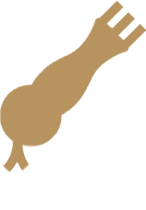
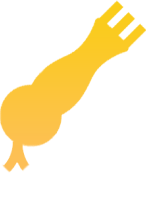
create Sedha view

Changed region(s): [[0.0, 0.0, 1.0, 0.8286]]

diff --git a/lib/ui/teps/sebha tep/sebha view.dart b/lib/ui/teps/sebha tep/sebha view.dart
@@ -1,10 +1,100 @@
 import 'package:flutter/material.dart';
 
-class SebhaView extends StatelessWidget {
+class SebhaView extends StatefulWidget {
   const SebhaView({super.key});
 
   @override
+  State<SebhaView> createState() => _SebhaViewState();
+}
+
+class _SebhaViewState extends State<SebhaView> {
+  int counter = 0;
+
+  int azkarIndex = 0;
+  double angle = 0.0;
+
+  List<String> azkar = [
+    "سبحان الله",
+    "الحمد الله",
+    "  الله اكبر ",
+  ];
+
+  @override
   Widget build(BuildContext context) {
-    return const Placeholder();
+    double width = MediaQuery.of(context).size.width;
+    double height = MediaQuery.of(context).size.height;
+    var theme = Theme.of(context);
+    return Container(
+      padding: EdgeInsets.symmetric(vertical: height * 0.08),
+      alignment: Alignment.center,
+      child: Column(children: [
+        Stack(
+          clipBehavior: Clip.none,
+          children: [
+            Positioned(
+                top: -30,
+                child: Image.asset(
+                    width: width * 0.6,
+                    height: height * 0.10,
+                    "assets/images/head of seb7a.png")),
+            Transform.rotate(
+                angle: angle,
+                child: Image.asset(
+                    width: width * 0.60, "assets/images/body of seb7a.png")),
+          ],
+        ),
+        SizedBox(
+          height: height * 0.02,
+        ),
+        Text(
+          "عدد التسبيحات",
+          style: theme.textTheme.titleMedium!
+              .copyWith(color: theme.colorScheme.onPrimary),
+          textAlign: TextAlign.center,
+        ),
+        Container(
+          margin: EdgeInsets.symmetric(vertical: height * 0.04),
+          alignment: Alignment.center,
+          width: width * 0.18,
+          height: height * 0.08,
+          decoration: BoxDecoration(
+            borderRadius: BorderRadius.circular(24.0),
+            color: theme.colorScheme.primary.withOpacity(0.6),
+          ),
+          child: Text(
+            counter.toString(),
+            style: theme.textTheme.titleMedium,
+            textAlign: TextAlign.center,
+          ),
+        ),
+        ElevatedButton(
+          style: ElevatedButton.styleFrom(
+            shape: RoundedRectangleBorder(
+              borderRadius: BorderRadius.circular(30.0),
+            ),
+            //minimumSize: Size(100, 8)
+          ),
+          onPressed: () {
+            if (counter == 33) {
+              counter = 0;
+              if (azkarIndex == azkar.length - 1) {
+                azkarIndex = 0;
+              } else {
+                azkarIndex++;
+              }
+            } else {
+              counter++;
+            }
+            angle = angle + 20;
+            setState(() {});
+          },
+          child: Text(
+            azkar[azkarIndex],
+            style: theme.textTheme.titleMedium,
+            textAlign: TextAlign.center,
+          ),
+        ),
+      ]),
+    );
   }
 }

diff --git a/lib/ui/home/home_Screen.dart b/lib/ui/home/home_Screen.dart
@@ -23,7 +23,7 @@ class _HomeScreenState extends State<HomeScreen> {
   var tapsView = [
     const QuranView(),
     const HadithView(),
-    const SebhaView(),
+    SebhaView(),
     const RadioView(),
     const SettingView(),
   ];
@@ -54,19 +54,22 @@ class _HomeScreenState extends State<HomeScreen> {
           },
           items: [
             BottomNavigationBarItem(
-                icon: ImageIcon(AssetImage("assets/images/quran.png")),
+                icon: const ImageIcon(AssetImage("assets/images/quran.png")),
                 label: AppLocalizations.of(context)!.quranTep),
             BottomNavigationBarItem(
-                icon: ImageIcon(AssetImage("assets/images/hadith icn.png")),
+                icon:
+                    const ImageIcon(AssetImage("assets/images/hadith icn.png")),
                 label: AppLocalizations.of(context)!.hadithTep),
             BottomNavigationBarItem(
-                icon: ImageIcon(AssetImage("assets/images/sebha icn.png")),
+                icon:
+                    const ImageIcon(AssetImage("assets/images/sebha icn.png")),
                 label: AppLocalizations.of(context)!.sebhaTep),
             BottomNavigationBarItem(
-                icon: ImageIcon(AssetImage("assets/images/radio_blue.png")),
+                icon:
+                    const ImageIcon(AssetImage("assets/images/radio_blue.png")),
                 label: AppLocalizations.of(context)!.radioTep),
             BottomNavigationBarItem(
-                icon: Icon(Icons.settings),
+                icon: const Icon(Icons.settings),
                 label: AppLocalizations.of(context)!.settingsTep),
           ],
         ),

diff --git a/lib/core/theme_application.dart b/lib/core/theme_application.dart
@@ -5,11 +5,12 @@ class ApplicationTheme {
   static bool isDark = true;
   static ThemeData lightTheme = ThemeData(
       colorScheme: ColorScheme.fromSeed(
-          onPrimary: const Color(0xff242424),
-          primary: const Color(0xffB7935F),
+        onPrimary: const Color(0xff242424),
+        primary: const Color(0xffB7935F),
         seedColor: const Color(0xff242424),
         secondary: const Color(0xffF8F8F8),
-          onSecondary: const Color(0xffF8F8F8)),
+        onSecondary: const Color(0xffF8F8F8),
+      ),
       textTheme: TextTheme(
         titleLarge: GoogleFonts.elMessiri(
             fontSize: 30,
@@ -80,11 +81,12 @@ class ApplicationTheme {
       ));
   static ThemeData darkTheme = ThemeData(
       colorScheme: ColorScheme.fromSeed(
-          onPrimary: const Color(0xffFACC1D),
-          primary: const Color(0xffFACC1D),
-          seedColor: const Color(0xff141A2E),
-          secondary: const Color(0xffFFFFFF),
-          onSecondary: const Color(0xff141A2E)),
+        onPrimary: const Color(0xffFACC1D),
+        primary: const Color(0xffFACC1D),
+        seedColor: const Color(0xff141A2E),
+        secondary: const Color(0xffFFFFFF),
+        onSecondary: const Color(0xff141A2E),
+      ),
       textTheme: TextTheme(
         titleLarge: GoogleFonts.elMessiri(
             fontSize: 30,

diff --git a/lib/main.dart b/lib/main.dart
@@ -10,8 +10,12 @@ import 'core/theme_application.dart';
 import 'ui/home/home_Screen.dart';
 
 void main() {
-  runApp(ChangeNotifierProvider(
-      create: (context) => AppProvider(), child: IslamiApplication()));
+  runApp(
+    ChangeNotifierProvider(
+      create: (context) => AppProvider(),
+      child: const IslamiApplication(),
+    ),
+  );
 }
 
 class IslamiApplication extends StatelessWidget {
@@ -27,7 +31,7 @@ class IslamiApplication extends StatelessWidget {
       themeMode: appProvider.currentTheme,
       initialRoute: SplashScreen.routName,
       localizationsDelegates: AppLocalizations.localizationsDelegates,
-      supportedLocales: [
+      supportedLocales: const [
         Locale('en'), // English
         Locale('ar'),
       ],
@@ -35,8 +39,8 @@ class IslamiApplication extends StatelessWidget {
       routes: {
         SplashScreen.routName: (_) => const SplashScreen(),
         HomeScreen.routName: (_) => const HomeScreen(),
-        SuraDetails.routName: (_) => SuraDetails(),
-        HadithDetails.routName: (_) => const HadithDetails()
+        SuraDetails.routName: (_) => const SuraDetails(),
+        HadithDetails.routName: (_) => const HadithDetails(),
       },
     );
   }

diff --git a/lib/core/provider/app_provider.dart b/lib/core/provider/app_provider.dart
@@ -21,7 +21,6 @@ class AppProvider extends ChangeNotifier {
         ? "assets/images/splashScreen.png"
         : "assets/images/splashScreen_dark.png";
   }
-
   String getBackgroundPathName() {
     return currentTheme == ThemeMode.light
         ? "assets/images/background.png"

diff --git a/lib/ui/teps/radio tep/radio view.dart b/lib/ui/teps/radio tep/radio view.dart
@@ -5,6 +5,6 @@ class RadioView extends StatelessWidget {
 
   @override
   Widget build(BuildContext context) {
-    return const Placeholder();
+    return Column(children: []);
   }
 }
